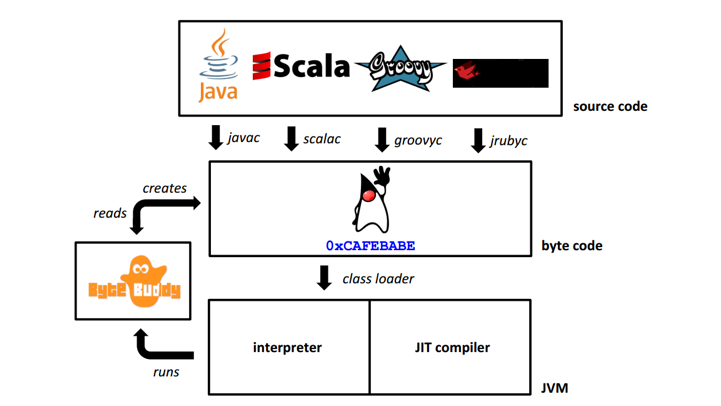
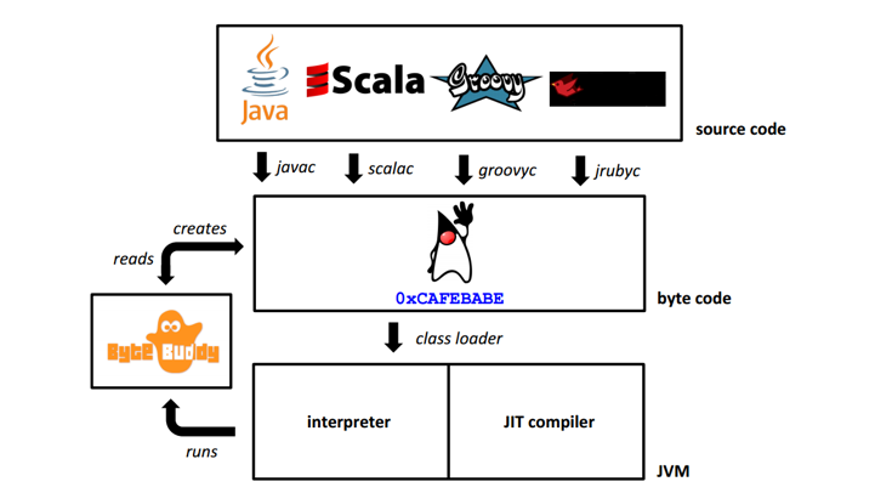
modified slides

diff --git a/docs/bytebuddy.html b/docs/bytebuddy.html
@@ -120,11 +120,20 @@ table.CodeRay td.code>pre{padding:0}
 <div class="deck-container">
 <section class="slide" id="title-slide">
 <h1><code>Byte Buddy</code> : la génération de bytecode facile !</h1>
-<span id="author">Nicolas Comet</span>
+<span id="author" style="color: white">Nicolas Comet</span>
 <br />
 <span id="email"><a href="mailto:nicolas.comet@gmail.com">nicolas.comet@gmail.com</a></span>
 <br />
 </section>
+<div id="preamble">
+<div class="sectionbody">
+<div class="imageblock">
+<div class="content">
+<img alt="bandeau" height="117" src="images/bandeau_devoxx.png" width="1920" />
+</div>
+</div>
+</div>
+</div>
 <section class="slide" id="_qui_je_suis">
 <h2>Qui je suis</h2>
 <div class="imageblock" style="float: right">
@@ -170,12 +179,27 @@ leader mondial des solutions dédiées à l&#8217;industrie textile (machines et
 <img alt="rwinterhalter" src="images/rwinterhalter.png" />
 </div>
 </div>
+<div class="imageblock">
+<div class="content">
+<img alt="devoxx" src="images/devoxx.png" />
+</div>
+</div>
 </section>
-<section class="slide canvas-image" id="_bytecode" style="background-image: url(images/diag.png)">
-<div class="paragraph canvas-caption"><p class="top-left">Bytecode?</p></div>
+<section class="slide" id="_bytecode">
+<h2>Bytecode ?</h2>
+<div class="imageblock">
+<div class="content">
+<img alt="diagramme" height="493" src="images/diag.png" width="875" />
+</div>
+</div>
 </section>
-<section class="slide canvas-image" id="_frameworks_génération_bytecode" style="background-image: url(images/frameworks.png)">
-
+<section class="slide" id="_frameworks_génération_bytecode">
+<h2>Frameworks &amp; génération bytecode</h2>
+<div class="imageblock">
+<div class="content">
+<img alt="frameworks" height="517" src="images/frameworks.png" width="875" />
+</div>
+</div>
 </section>
 <section class="slide" id="_byte_buddy">
 <h2>Byte Buddy</h2>
@@ -223,7 +247,7 @@ leader mondial des solutions dédiées à l&#8217;industrie textile (machines et
 <div class="paragraph"><p>Slides :</p></div>
 <div class="paragraph"><p><span class="icon"><i class="icon-external-link"></i></span> <a class="bare" href="https://ncomet.github.io/devoxxfr2017-bytebuddy/bytebuddy.html">https://ncomet.github.io/devoxxfr2017-bytebuddy/bytebuddy.html</a></p></div>
 <div class="paragraph"><p>Sources :</p></div>
-<div class="paragraph"><p><span class="icon"><i class="icon-external-link"></i></span> <a class="bare" href="https://github.com/ncomet/devoxxfr2017-bytebuddy">https://github.com/ncomet/devoxxfr2017-bytebuddy</a></p></div>
+<div class="paragraph"><p><span class="icon"><i class="icon-github"></i></span> <a class="bare" href="https://github.com/ncomet/devoxxfr2017-bytebuddy">https://github.com/ncomet/devoxxfr2017-bytebuddy</a></p></div>
 </section>
 <div aria-role="navigation">
 <a class="deck-prev-link" href="#" title="Previous">&#8592;</a>
@@ -252,11 +276,11 @@ leader mondial des solutions dédiées à l&#8217;industrie textile (machines et
     (function($, deck, undefined) {
       $.deck.defaults.keys['previous'] = [8, 33, 37, 39];
       $.deck.defaults.keys['next'] = [13, 32, 34, 39];
-    
+
       $.extend(true, $[deck].defaults, {
           countNested: false
       });
-    
+
       $.deck('.slide');
     })(jQuery, 'deck');
   //]]>
@@ -284,28 +308,28 @@ leader mondial des solutions dédiées à l&#8217;industrie textile (machines et
     -webkit-box-pack: start;
     -ms-box-pack: start;
     box-pack: start;}
-    
+
     .bottom-left {
       left: 1%;
       bottom: 20%; }
-    
+
     .top-left {
       left: 1%;
       top: 20%; }
-    
+
     .bottom-right {
       right: 1%;
       bottom: 20%; }
-    
+
     .top-right {
       right: 1%;
       top: 20%; }
-    
+
     .center-up {
       right: 50%;
       top: 1%;
     }
-    
+
     .center-down {
       right: 50%;
       bottom: 1%;
